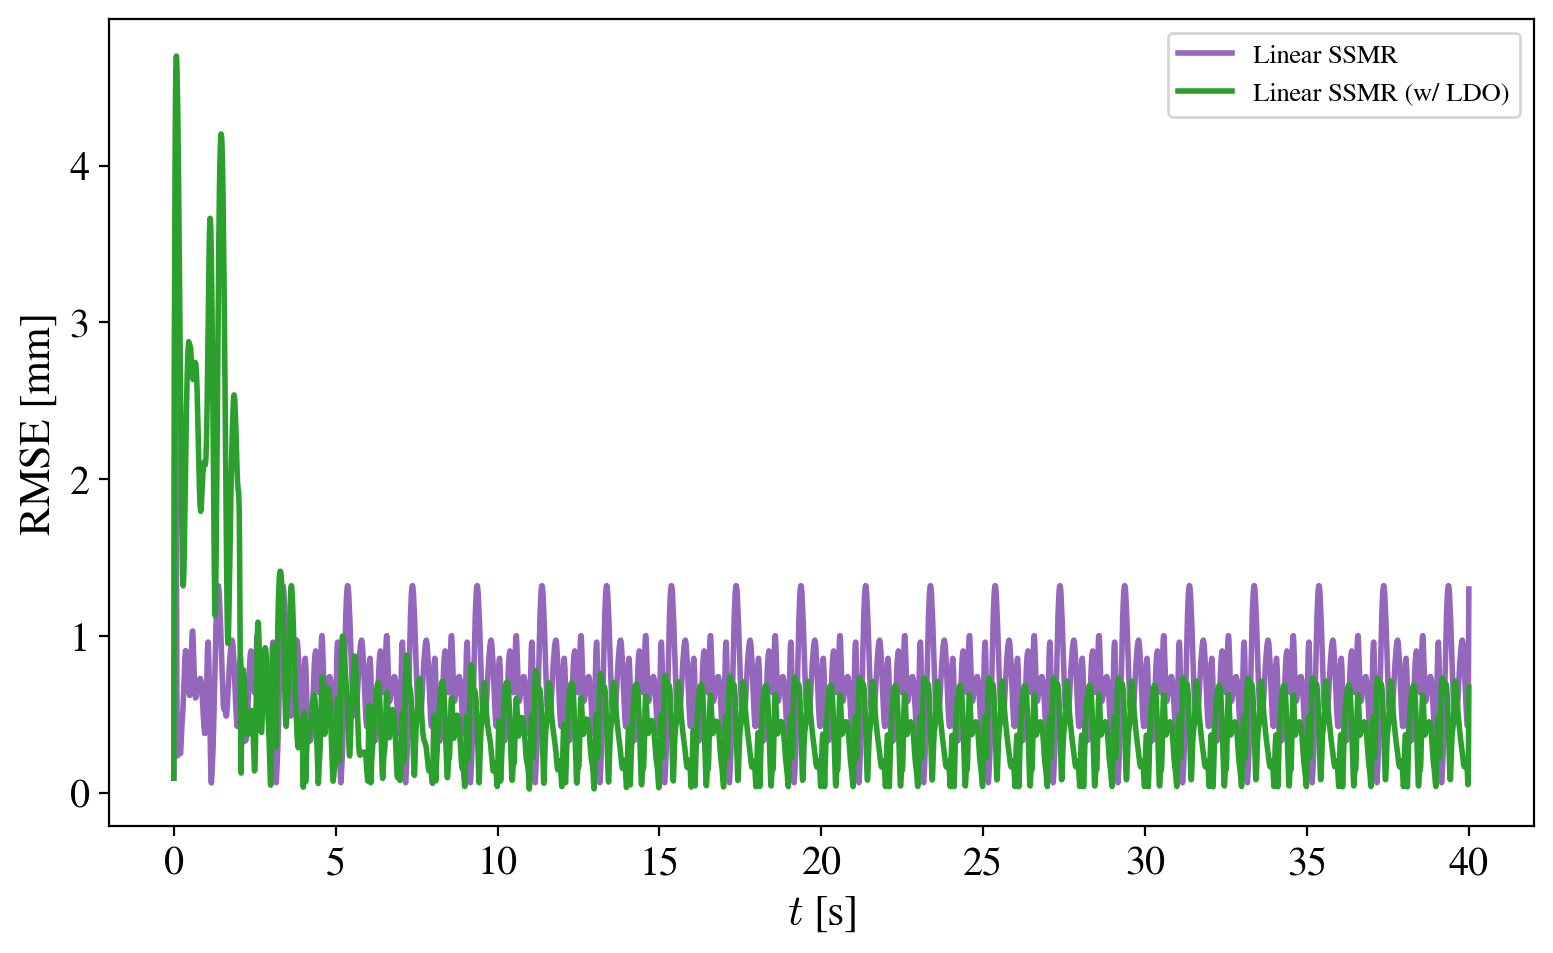
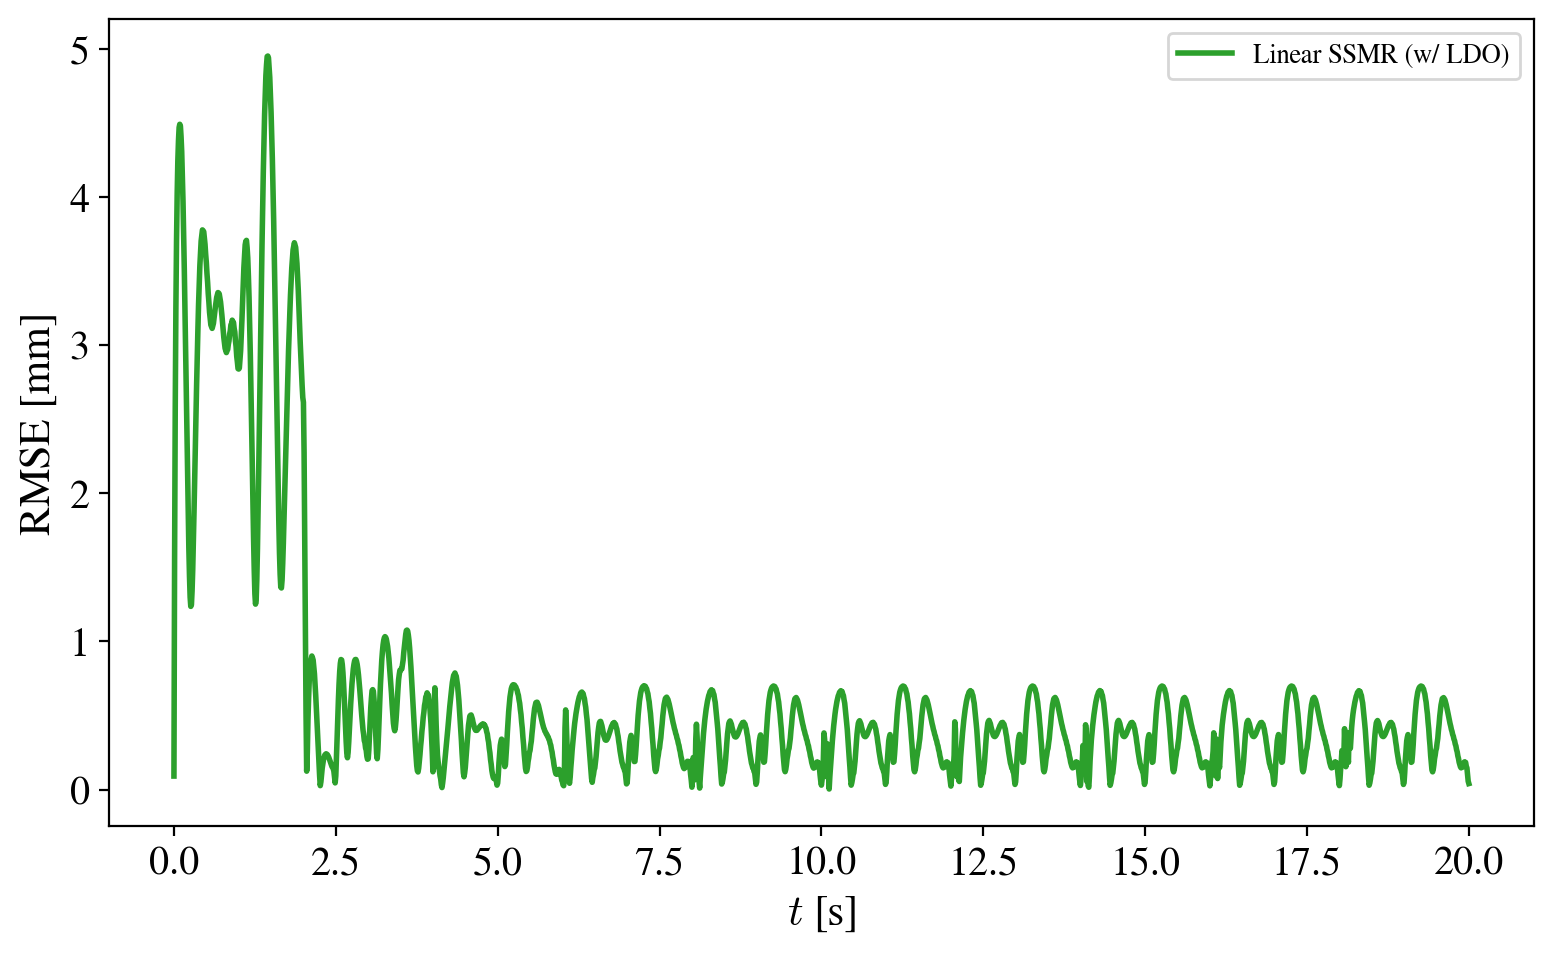
LDO commits from desktop

diff --git a/sofacontrol/SSM/ssm.py b/sofacontrol/SSM/ssm.py
@@ -9,6 +9,7 @@ import jax
 from functools import partial
 from sofacontrol.utils import norm2Diff
 from scipy.linalg import block_diag
+import control
 import mpctools as mpc
 from os.path import join, exists
 
@@ -238,32 +239,47 @@ class SSMDynamics(SSM):
                 self.Cd = np.eye(self.Nid)
 
                 # TODO: Modify gains here!!!!! Define LDO cost for LQE
-                Qw_per = block_diag(np.eye(self.state_dim), 10. * np.eye(self.Nid * self.Nper)) # TODO: Hard-coded. Should set this in run_gusto_solver method
-                # Qw_per = block_diag(np.eye(self.state_dim), 2. * np.eye(self.Nid), 10.*np.eye(self.Nid*self.Nper-self.Nid))
-                Rv_per = np.eye(self.output_dim)
+                # Q_kalman = block_diag(np.eye(self.state_dim), 10. * np.eye(self.Nid * self.Nper)) # TODO: Hard-coded. Should set this in run_gusto_solver method
+                Q_kalman = block_diag(np.eye(self.state_dim), 10*np.eye(self.Nid), 1000*np.eye(self.Nid*self.Nper-self.Nid))
+                R_kalman = np.eye(self.output_dim)
 
                 # Get shifting matrix
                 self.Sd = scutils.get_LDO_disturbance_matrices(self.Bd, self.Nper)
                 
                 if exists(gains_path):
+                    print('Loading existing Lgains')
                     gains = scutils.load_data(gains_path)
-                    self.Lx, self.Ld = gains['Lx'], gains['Ld']
+                    self.L_LDO = gains['L_LDO']
+
                 else:
+                    print('Calculating Lgains')
                     # Extract discrete time matrices for linear system 
                     A, B, _ = self.get_jacobians(np.zeros(self.state_dim), np.zeros(self.input_dim), dt)
                     # C = self.w_coeff
                     C, _ = self.get_observer_jacobians(np.zeros(self.state_dim))
-                    A_aug, B_aug, C_aug = scutils.get_LDO_LTI(A, B, C, self.Bd, self.Cd, self.Nper)
+                    A_LDO, B_LDO, C_LDO = scutils.get_LDO_LTI(A, B, C, self.Bd, self.Cd, self.Nper)
 
-                    # Get Kalman Filter gains
-                    L_per, _ = mpc.util.dlqe(A_aug, C_aug, Qw_per, Rv_per)
+                    # Compute Lgains
+                    # Unstable (bad):
+                    # L_LDO, _ = mpc.util.dlqe(A_LDO, C_LDO, Q_kalman, R_kalman)
+                    # L_LDO = -L_LDO
+
+                    # Stable (good):
+                    K, S, E = control.dlqr(A_LDO.T, C_LDO.T, Q_kalman, R_kalman)
+                    L_LDO = -K.T
 
                     # Extract gains then save. Takes a while to calculate
-                    gains = {'Lx': L_per[:self.state_dim, :], 'Ld': L_per[self.state_dim:, :]}
+                    gains = {'L_LDO': L_LDO}
                     scutils.save_data(gains_path, gains)
+                    print('Saved Lgains')
 
-                    self.Lx = gains['Lx']
-                    self.Ld = gains['Ld']
+                    self.L_LDO = L_LDO
+
+                    print('Eigenvalues of A_LDO + L_LDO @ C_LDO:')
+                    print(np.round(np.abs(np.linalg.eigvals(A_LDO + L_LDO @ C_LDO)), 3))
+                    if any (np.abs(np.linalg.eigvals(A_LDO + L_LDO @ C_LDO)) > 1):
+                        print('*Warning: Observer not stable!')
+
             else:
                 raise NotImplementedError("Nonlinear LDO not implemented yet")
         else:

diff --git a/sofacontrol/utils.py b/sofacontrol/utils.py
@@ -958,23 +958,62 @@ def get_LDO_disturbance_matrices(Bd, Nperiod: int):
 
     return Sd
 
-def get_LDO_LTI(A, B, C, Bd, Cd, Nperiod: int):
+# def get_LDO_LTI(A, B, C, Bd, Cd, Nperiod: int):
+#     # Get dimensions
+#     nx = A.shape[0]
+#     nu = B.shape[1]
+#     nd = Bd.shape[1]
+
+#     # As opposed to lift_LTI, we now have Nperiod copies of the disturbance vector
+#     # Ashift should be of size (Nperiod*nd, Nperiod*nd)
+#     # It should shift the disturbance vector by nd at each period
+#     Ashift = create_circ_matrix(nd, Nperiod)
+#     # Bpick should be of size (Nperiod*nd, nd)
+#     # It should pick out the first nd elements of the state vector
+#     Bpick = np.block([np.eye(nd), np.zeros((nd, (Nperiod-1)*nd))])
+
+#     # Augmented state space model
+#     Ae = np.block([[A, Bd @ Bpick], [np.zeros((Nperiod*nd, nx)), Ashift]])
+#     Be = np.block([[B], [np.zeros((Nperiod*nd, nu))]])
+#     Ce = np.block([[C, Cd @ Bpick]])
+
+#     return Ae, Be, Ce
+
+def create_Sd(nd, Nperiod):
+    # Create a block diagonal matrix with Nperiod copies of the identity matrix of size nd
+    # The matrix should be of size (Nperiod*nd, Nperiod*nd)
+
+    # CHECK nd and Nperiod are integers
+    assert isinstance(nd, int)
+    assert isinstance(Nperiod, int)
+
+    Sd = block_diag(*[np.eye(nd) for _ in range(Nperiod)])
+
+    # Roll the matrix by nd to the right
+    Sd = np.roll(Sd, nd, axis=1)
+
+    return Sd
+
+def create_S0(nd, Nperiod):
+
+    S0 = np.block([np.eye(nd), np.zeros((nd, (Nperiod-1)*nd))])
+
+    return S0
+
+def get_LDO_LTI(A, B, C, Bd, Cd, Nperiod):
     # Get dimensions
     nx = A.shape[0]
     nu = B.shape[1]
     nd = Bd.shape[1]
 
-    # As opposed to lift_LTI, we now have Nperiod copies of the disturbance vector
-    # Ashift should be of size (Nperiod*nd, Nperiod*nd)
-    # It should shift the disturbance vector by nd at each period
-    Ashift = create_circ_matrix(nd, Nperiod)
-    # Bpick should be of size (Nperiod*nd, nd)
-    # It should pick out the first nd elements of the state vector
-    Bpick = np.block([np.eye(nd), np.zeros((nd, (Nperiod-1)*nd))])
+    Sd = create_Sd(nd, Nperiod)
+    S0 = np.block([np.eye(nd), np.zeros((nd, (Nperiod-1)*nd))])
 
     # Augmented state space model
-    Ae = np.block([[A, Bd @ Bpick], [np.zeros((Nperiod*nd, nx)), Ashift]])
-    Be = np.block([[B], [np.zeros((Nperiod*nd, nu))]])
-    Ce = np.block([[C, Cd @ Bpick]])
+    A_LDO = np.block([[A,                          Bd @ S0],
+                   [np.zeros((Nperiod*nd, nx)), Sd]])
+    B_LDO = np.block([[B],
+                   [np.zeros((Nperiod*nd, nu))]])
+    C_LDO = np.block([[C, Cd @ S0]])
 
-    return Ae, Be, Ce
+    return A_LDO, B_LDO, C_LDO

diff --git a/examples/hardware/diamond_SSM.py b/examples/hardware/diamond_SSM.py
@@ -23,10 +23,10 @@ modelType = 'linear' # "delays", "posvel", "singleDelay", "linear"
 dt = 0.02 # This dt for when to recalculate control
 
 ######## Generate LDO Parameters ########
-Mper = 20   # Number of periods to simulate
+Mper = 10   # Number of periods to simulate
 Tper = 2.  # Period of trajectory
-# Nper = int(Tper / dt) + 1    # Number of points per period (this will be trigger for doing LDO)
-Nper = None
+Nper = int(Tper / dt) + 1    # Number of points per period (this will be trigger for doing LDO)
+# Nper = None
 
 def run_scp():
     """
@@ -240,7 +240,7 @@ def run_scp_LDO():
     pathToModel = path + '/SSMmodels/'
     # pathToModel = "/home/jalora/Desktop/diamond_origin/000/SSMmodel_delay-embedding_ROMOrder=3_localV" # join(path, "SSMmodels", "model_004")
     # Simulation settings
-    sim_duration = 41.
+    sim_duration = 21.
     if Nper is None:
         save_prefix = 'ssmr_' + modelType
     else:
@@ -373,7 +373,7 @@ def run_gusto_solver_LDO():
     Qz[0, 0] = 100  # corresponding to x position of end effector
     Qz[1, 1] = 100  # corresponding to y position of end effector
     Qz[2, 2] = 0.0  # corresponding to z position of end effector
-    R = 0.001 * np.eye(model.input_dim) # 0.00001
+    R = 0.00001 * np.eye(model.input_dim) # 0.00001 # 0.001
 
     #############################################
     # Problem 2, X-Y-Z plane cost function

diff --git a/examples/plotting2.py b/examples/plotting2.py
@@ -478,6 +478,11 @@ def plot_RMSE_v_t():
             # errors are to be measured in 2D
             err[control] = (z_centered[:-1, :2] - zf_target[:, :2])
         rmse[control] = np.sqrt(np.mean(np.linalg.norm(err[control], axis=1)**2, axis=0))
+    
+    # Print average RMSE after half of the trajectory
+    print("Average RMSE after half of the trajectory:")
+    for control in CONTROLS:
+        print(f"{SETTINGS['display_name'][control]}: {np.mean(np.linalg.norm(err[control], axis=1)[int(len(err[control])/2):]):.3f} mm")
 
     """Plot RMSE as function of time"""
     fig, ax = plt.subplots(1, 1, figsize=(8, 5))
@@ -1179,12 +1184,12 @@ if __name__ == "__main__":
     # traj_3D(time_gradient=True)
     traj_inputs_vs_t()
     # traj_x_vs_y()
-    traj_xy_vs_t()
+    # traj_xy_vs_t()
     # disturbance_vs_t()
     plot_RMSE_v_t()
     # plot_trueDist_v_t_interp()
     # plot_trueDist_v_t()
-    # innovation_vs_t()
+    innovation_vs_t()
     # traj_xyz_vs_t()
 
     # plotTrunkResults()

diff --git a/sofacontrol/SSM/observer.py b/sofacontrol/SSM/observer.py
@@ -110,10 +110,15 @@ class SSMObserverLDO:
         y = jnp.asarray(y)
         d_curr = self.d[:self.dyn_sys.Nid]
 
-        self.err = self.dyn_sys.C @ y - self.dyn_sys.reduced_to_output(jnp.array(self.x)) - self.dyn_sys.Cd @ d_curr
+        # self.err = self.dyn_sys.C @ y - self.dyn_sys.reduced_to_output(jnp.array(self.x)) - self.dyn_sys.Cd @ d_curr
 
-        self.x = self.x + self.dyn_sys.Lx @ self.err
-        self.d = self.d + self.dyn_sys.Ld @ self.err
+        # self.x = self.x + self.dyn_sys.Lx @ self.err
+        # self.d = self.d + self.dyn_sys.Ld @ self.err
+
+        self.err = (self.dyn_sys.reduced_to_output(jnp.array(self.x)) + self.dyn_sys.Cd @ d_curr - self.dyn_sys.C @ y)
+        self.innov = self.dyn_sys.L_LDO @ self.err
+        self.x = self.x + self.innov[:self.dyn_sys.state_dim] 
+        self.d = self.d + self.innov[self.dyn_sys.state_dim:]
 
         return self.x
 

diff --git a/sofacontrol/scp/ros.py b/sofacontrol/scp/ros.py
@@ -186,7 +186,8 @@ class GuSTOSolverNode(Node):
 
         # TODO: Generate periodic reference
         # Get target u terms for cost function
-        if self.model.dyn_sys.LDO and t0 >= self.model.dyn_sys.Tper:
+        # if self.model.dyn_sys.LDO and t0 >= 2*self.model.dyn_sys.Tper:
+        if False:
             u = self.get_uperiodic_ref(t - self.model.dyn_sys.Tper)
         else:
             if self.u is not None:
